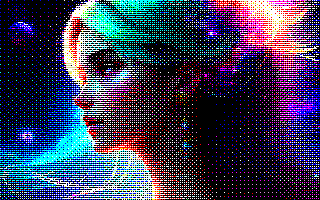
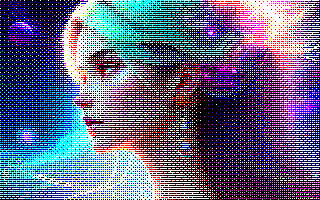
remove linearization on mo5 conversion

diff --git a/bayermo5.c b/bayermo5.c
@@ -46,10 +46,10 @@ int main(int argc, char *argv[])
 		return EXIT_FAILURE;
 	}
 
-	unsigned char *linearized_image = linearizeImage(original_image, width, height);
-	stbi_write_png("linearized.png", width, height, COLOR_COMP,
-				   linearized_image, width * COLOR_COMP);
-	free(original_image);
+	// unsigned char *linearized_image = linearizeImage(original_image, width, height);
+	// stbi_write_png("linearized.png", width, height, COLOR_COMP,
+	// 			   linearized_image, width * COLOR_COMP);
+	// free(original_image);
 
 	unsigned char *output_image = malloc(THOMSON_SCREEN_W * THOMSON_SCREEN_H * COLOR_COMP * sizeof(unsigned char));
 
@@ -77,7 +77,7 @@ int main(int argc, char *argv[])
 			int i = 0;
 			for (int z = x; z <= x + 7; z++) {
 				float d = bayer_matrix_8x8[y % 8][z % 8];
-				Color p = color_add(get_average_pixel(linearized_image, width, height, z, y), err1[z + 1]);
+				Color p = color_add(get_average_pixel(original_image, width, height, z, y), err1[z + 1]);
 				int c = ((p.r > d) ? 1 : 0) + ((p.g > d) ? 2 : 0) + ((p.b > d) ? 4 : 0);
 				int val = get_or_default(histo, c, 0);
 				val++;
@@ -132,7 +132,7 @@ int main(int argc, char *argv[])
 										: couple.c2;
 							Color e = color_mul(
 								color_sub(fromColorPalette(mo5_palette[qk]), fromColorPalette(mo5_palette[p])), COEF);
-							Color z = color_add(get_average_pixel(linearized_image, width, height, x + k, y + 1), e);
+							Color z = color_add(get_average_pixel(original_image, width, height, x + k, y + 1), e);
 							d += clamp_deviation(z.r) + clamp_deviation(z.g) + clamp_deviation(z.b);
 						}
 						if (d <= dm) {
@@ -167,7 +167,8 @@ int main(int argc, char *argv[])
 	stbi_write_png("output_mo5.png", THOMSON_SCREEN_W, THOMSON_SCREEN_H, COLOR_COMP, output_image,
 				   THOMSON_SCREEN_W * COLOR_COMP);
 
-	free(linearized_image);
+	free(original_image);
+	// free(linearized_image);
 	free(output_image);
 
 	return 0;
